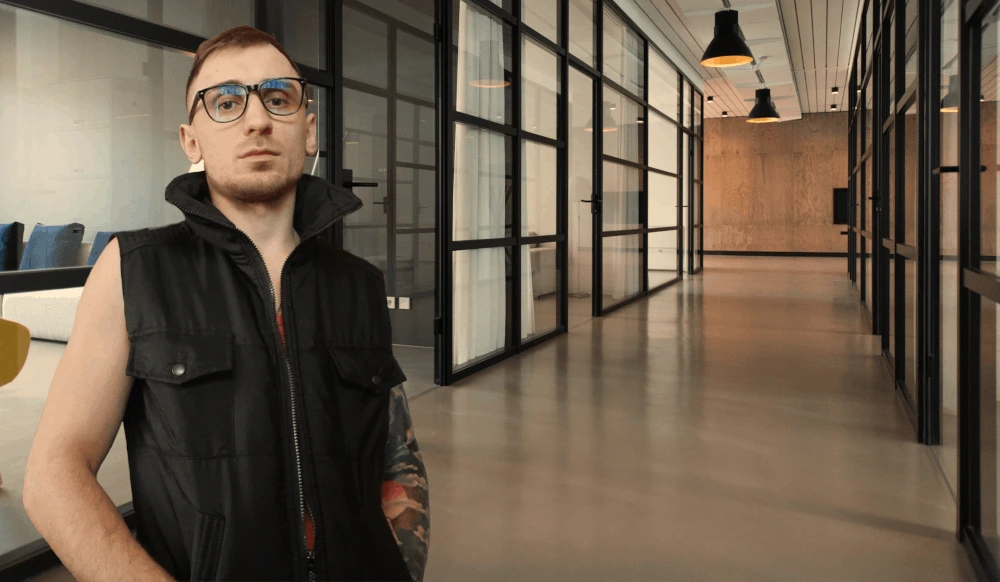
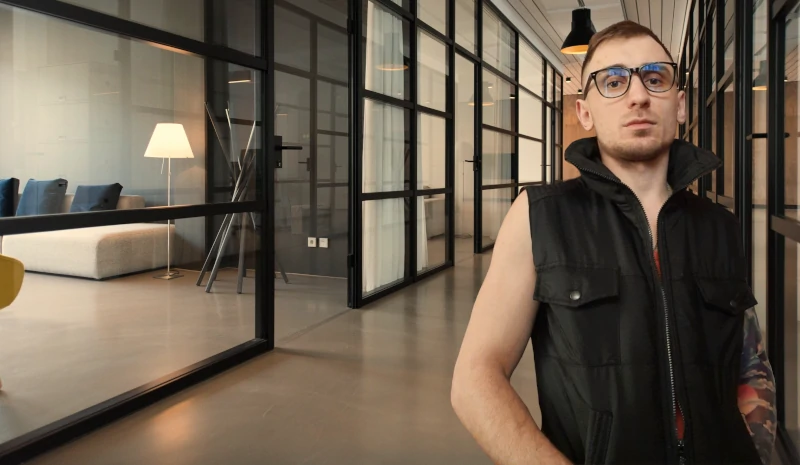
Added search field to home page

diff --git a/resources/ts/app.ts b/resources/ts/app.ts
@@ -1,5 +1,4 @@
 import { createApp, onMounted } from 'vue'
-import Typewriter from './components/Typewriter.vue'
 import ContactModal from './components/ContactModal.vue'
 import Hamburger from './components/Hamburger.vue'
 import SharePostButtons from './components/SharePostButtons.vue'
@@ -14,7 +13,6 @@ import Tip from './components/Tip.vue'
 
 const app = createApp({
     components: {
-        Typewriter,
         ContactModal,
         Hamburger,
         SharePostButtons,

diff --git a/resources/views/home.blade.php b/resources/views/home.blade.php
@@ -1,34 +1,63 @@
 @extends('layouts.app')
 
 @section('content')
-    <x-hero class="bg-page shadow-md" navbar="bg-gray-700 text-white">
-        <div class="container mt-4">
-            <div class="grid grid-cols-1 lg:grid-cols-[3fr_1fr] gap-5 pt-1">
-                <x-home.banner />
-                <x-home.last-post />
-            </div>
-        </div>
+    <x-hero class="relative shadow-md bg-gray-900 bg-home-hero-sm lg:bg-home-hero bg-no-repeat bg-top bg-cover" navbar="text-white">
+        <div class="overflow-hidden h-full shadow-lg min-h-[300px] md:min-h-[500px]">
+            <div class="absolute left-0 right-0 top-0 bottom-0 bg-gradient-to-r from-gray-800 to-gray-800/30"></div>
 
-        {{-- Welcome --}}
-        <section class="py-14 md:py-20">
-            <div class="container">
-                <div class="lg:px-10 mx-auto">
-                    <x-home.section-title>Nice to meet you</x-home.section-title>
+            <div class="z-10 absolute top-1/2 -translate-y-1/2 -translate-x-1/2 left-1/2 text-center">
+                <h1 class="text-xl lg:text-4xl relative">
+                    <span class="text-gray-300 drop-shadow-md">SERHII</span>
+                    <span class="text-main drop-shadow-md">CHO</span>
+                </h1>
 
-                    <div class="text-lg lg:text-xl font-light leading-7 lg:leading-9">
-                        <x-home.welcome-section />
+                <h2 class="text-white text-2xl">
+                    Professional Full Stack developer
+                </h2>
 
-                        <a
-                            href="{{ route('about-me') }}"
-                            class="text-link transition-colors hover:text-link-hover ml-1"
-                        >
-                            Read more ...
-                        </a>
-                    </div>
+                <div class="flex items-center justify-center mt-5">
+                    <form class="flex shadow-lg rounded-md overflow-hidden focus-within:ring-2 focus-within:ring-main">
+                        <input
+                            type="text"
+                            class="px-6 py-4 text-xl w-[500px]"
+                            placeholder="Enter post title, project or anything else"
+                        />
+
+                        <button class="flex items-center justify-center px-4 bg-white">
+                            <svg
+                                class="w-6 h-6 text-gray-600 stroke-gray-400"
+                                fill="currentColor"
+                                xmlns="http://www.w3.org/2000/svg"
+                                viewBox="0 0 24 24"
+                            >
+                                <path d="M16.32 14.9l5.39 5.4a1 1 0 0 1-1.42 1.4l-5.38-5.38a8 8 0 1 1 1.41-1.41zM10 16a6 6 0 1 0 0-12 6 6 0 0 0 0 12z" />
+                            </svg>
+                        </button>
+                    </form>
                 </div>
             </div>
-        </section>
+        </div>
     </x-hero>
+
+    {{-- Welcome --}}
+    <section class="py-14 md:py-20">
+        <div class="container">
+            <div class="lg:px-10 mx-auto">
+                <x-home.section-title>Nice to meet you</x-home.section-title>
+
+                <div class="text-lg lg:text-xl font-light leading-7 lg:leading-9">
+                    <x-home.welcome-section />
+
+                    <a
+                        href="{{ route('about-me') }}"
+                        class="text-link transition-colors hover:text-link-hover ml-1"
+                    >
+                        Read more ...
+                    </a>
+                </div>
+            </div>
+        </div>
+    </section>
 
     <section class="py-12 bg-page-second relative">
         <x-section-detail />

diff --git a/resources/views/components/navbar.blade.php b/resources/views/components/navbar.blade.php
@@ -1,4 +1,4 @@
-<nav class="relative">
+<nav class="relative z-20">
     <div class="container flex justify-between items-center min-h-[4rem]">
         <div class="flex items-center gap-x-1 w-full lg:w-auto">
             <a
